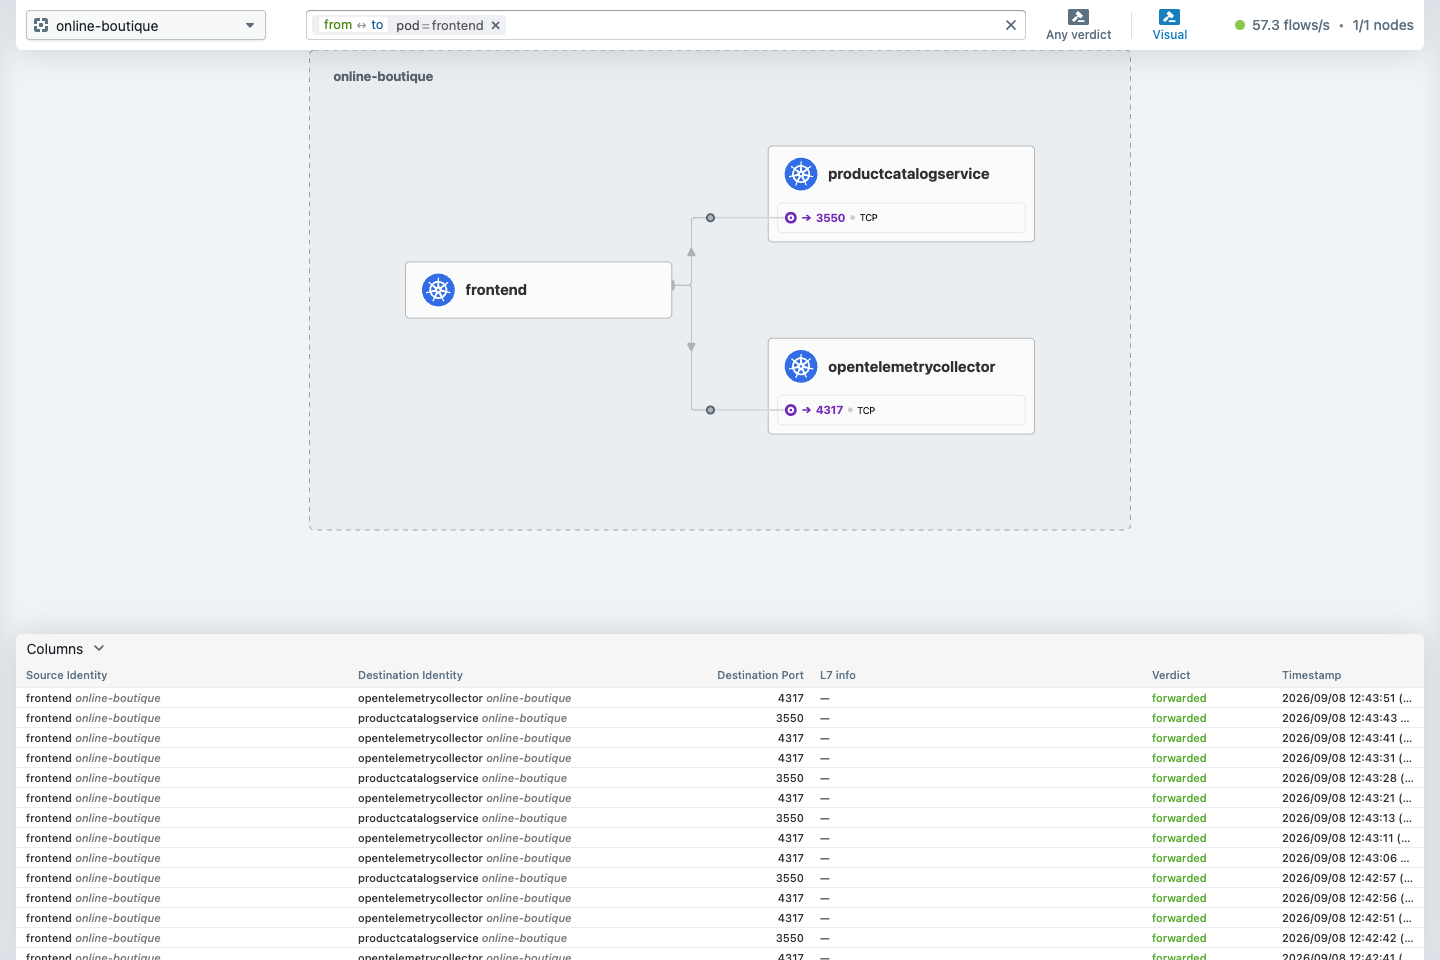
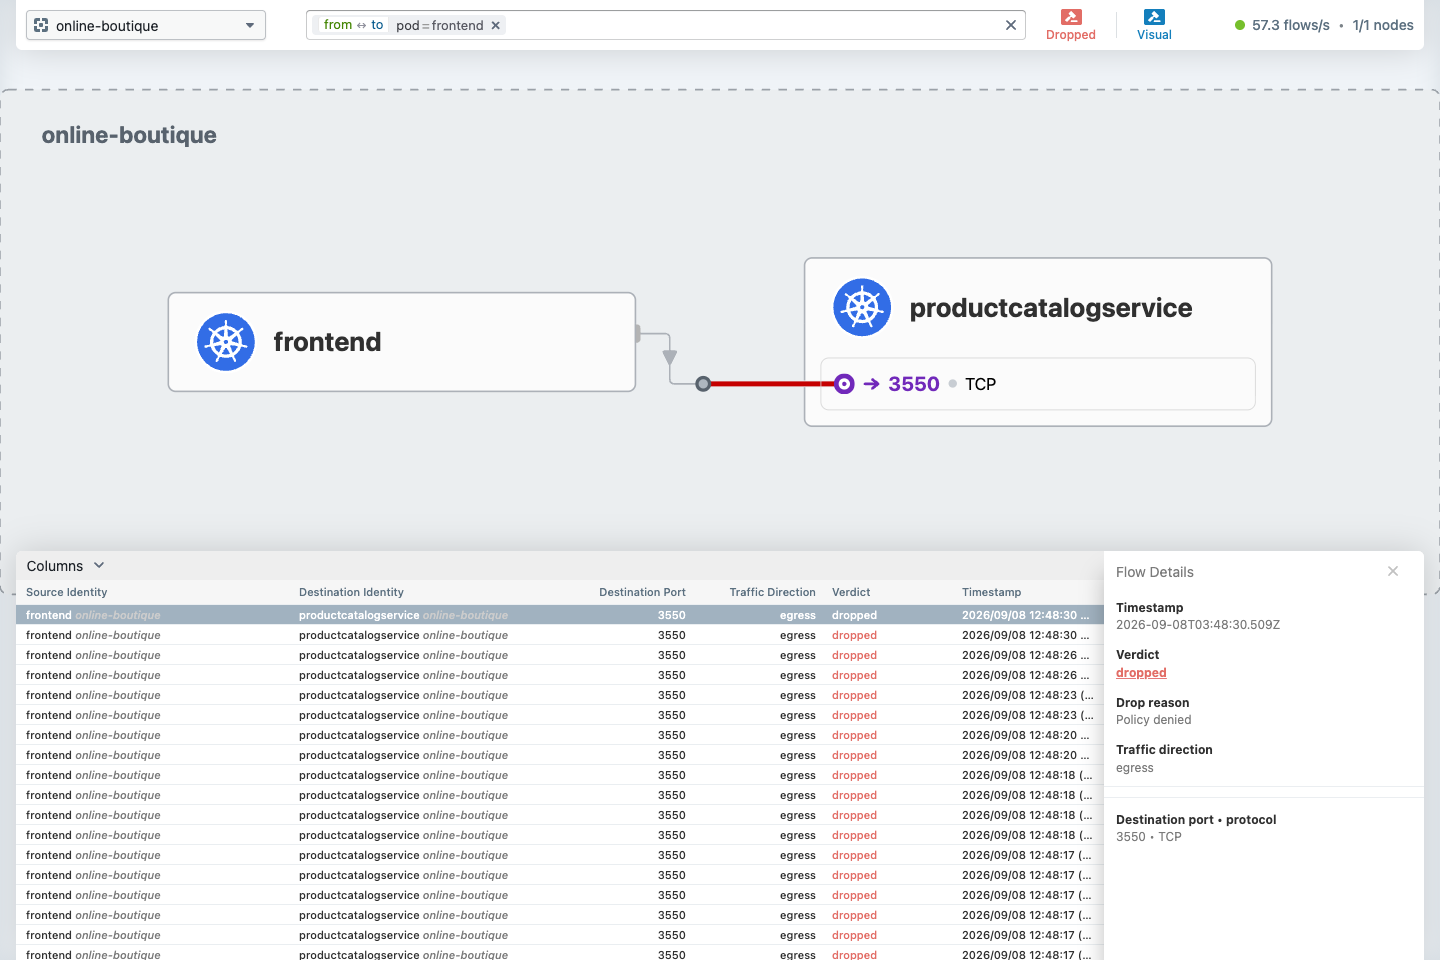
docs: connect Hubble topology and fault evidence walkthrough

diff --git a/README.md b/README.md
@@ -60,20 +60,63 @@ no-fault control에서는 분석 작업 자체는 정상 완료되지만, 원인
 root cause를 만들지 않고 `ABSTAIN`한다. 화면의 6개 누락 조건은 미확정 가설에 관한 것이며,
 이 대조군의 결과를 모든 정상 서비스에 대한 무오탐 보장으로 해석하지 않는다.
 
-### Network Evidence: Hubble UI
+### Network Fault Evidence: Hubble UI
 
-![Hubble UI frontend service map and forwarded flows after recovery](assets/hubble-network-observability.png)
+#### 1. 전체 통신 지도에서 조사 대상 찾기
 
-`frontend`로 필터링한 Hubble UI에서 `productcatalogservice:3550/TCP`와
-`opentelemetrycollector:4317/TCP`로 향하는 연결, 개별 Flow의 `forwarded` verdict와
-관측 시각을 확인한다. 내부 IP와 개별 Pod 식별자가 노출되지 않는 필터·표시 열로 캡처했다.
-이 화면은 **정책 차단 실험 복구 후 별도 시점의 실시간 관측**이며, 장애 당시 캡처나
-애플리케이션 요청 성공을 증명하는 화면은 아니다.
+![Hubble namespace service map with the investigated frontend and productcatalogservice endpoints annotated](assets/hubble-service-map-overview.png)
 
-Hubble UI는 운영자가 네트워크 신호를 확인하는 보조 화면이다. Agent는 이 이미지를
-분석하지 않고, Hubble Provider가 수집·정규화한 Flow Evidence를 StateGraph와
-Frozen Context를 통해 참조한다. 따라서 장애 원인을 검증할 때는 현재 UI가 아니라
-**Incident 시간창에 수집해 고정한 Evidence**를 기준으로 삼는다.
+Pod 필터를 해제한 namespace 관측 지도에서 여러 애플리케이션, Redis, OTel Collector와
+관측 시스템의 연결을 함께 확인한다. **A는 `frontend`, B는 `productcatalogservice`**로,
+아래 정책 차단 실험에서 조사한 경로의 양 끝이다. 파란 테두리는 README 설명용 표시이며
+Hubble의 장애 판정이 아니다. API 호출과 telemetry 전송이 함께 보이므로 모든 선을
+애플리케이션 간 API 의존성으로 해석하지 않는다.
+
+이 전체 지도는 **복구 후 05:02 UTC에 홈페이지·상품·장바구니를 각각 한 번 정상 조회한
+뒤 05:05 UTC에 캡처**했다. 세 조회는 HTTP 200이었으며 새 장애나 주문을 생성하지 않았다.
+아래 장애 시간창의 화면과는 관측 시점이 다르다.
+
+#### 2. 해당 경로의 장애 시간창에서 근거 확인하기
+
+위 OOM 사례와 별도로, 2026-09-08 **03:48:12–03:48:52 UTC**에
+`CiliumNetworkPolicy`로 `frontend → productcatalogservice:3550/TCP` 한 경로만 차단했다.
+
+![Hubble UI showing frontend to productcatalogservice egress drops with Policy denied details](assets/hubble-network-observability.png)
+
+빨간 연결선과 `dropped` 목록에서 차단된 경로를 확인하고, 오른쪽 `Flow Details`에서
+**03:48:30.509Z · egress · Policy denied · 3550/TCP**를 대조한다. 이는 장애 시간창에
+실제로 수신한 Flow를 선택한 화면이며, 화면 정리와 최종 캡처는 복구 후 진행했다.
+남아 있는 drop 목록을 현재 장애가 지속된다는 의미로 해석하지 않는다.
+
+| 단계 | 상품 조회 `/product/0PUK6V6EV0` 실측 | 함께 확인한 상태 |
+|---|---|---|
+| 차단 전 | 3/3 HTTP 200, 45–54 ms | 정상 baseline과 metric 수신 확인 |
+| 차단 중 | 3/3 client timeout, 약 5.03초 | 같은 시간창에 정책 차단 관측 18건, `/_healthz`는 HTTP 200 |
+| 정책 제거 후 | 3/3 HTTP 200, 42–44 ms | 정책·lock 제거, Pod 재시작·Deployment 변경 없음 |
+
+즉, **프로세스 health check는 통과해도 특정 의존 서비스로 가는 통신이 차단되어 상품
+요청은 실패할 수 있다.** timeout은 클라이언트에서 측정한 결과이며 HTTP 5xx가 아니다.
+18건은 수집된 205개 Flow 중 정책 차단 관측 수이지, 실패 요청 수가 아니다.
+
+#### 3. 관측을 RCA가 사용할 Evidence로 연결하기
+
+03:48 UTC 재현에서는 화면 확인에 그치지 않고, 같은 근거가 저장·고정·조회되는지 검증했다.
+
+| 경계 | 확인한 결과 |
+|---|---|
+| Hubble Provider → Evidence | 205개 Flow 중 정책 차단 관측 18건을 `POLICY_DENIAL_OBSERVED`로 정규화 |
+| Evidence → Neo4j StateGraph | 해당 Service의 Event에 같은 `evidence_id`와 facts가 투영됨 |
+| StateGraph → Frozen Context | 해당 Evidence가 포함되고 복구 후 재검사에도 Context hash가 동일함 |
+| Frozen Context → Agent 조회 도구 | 조사 후보에 포함되고 실제 `inspect_candidate` 호출이 `SUCCEEDED`, facts 일치 |
+
+Agent가 참조하는 것은 이 이미지가 아니라 수집·정규화된 Evidence다. 이는 **평가용 Alert
+기반 Evidence 경로 검증**이며 LLM 호출이나 네트워크 원인 확정은 포함하지 않는다.
+수집 품질의 `PARTIAL`과 retention `UNKNOWN`도 그대로 유지했다.
+[검증 범위와 안전장치](platform/observability/README.md#controlled-network-evidence-verification)를 참고한다.
+
+공개 캡처는 내부 IP·Pod·Cilium 식별자와 세부 라벨 필드를 숨기고 확대 배율·표 배치를
+조정했다. 전체 지도에는 A/B 설명 표시만 추가했으며, 관측된 서비스·연결, Flow 시각,
+verdict와 drop reason은 변경하지 않았다.
 
 ### Five-minute Demo
 

diff --git a/platform/observability/README.md b/platform/observability/README.md
@@ -187,8 +187,9 @@ Hubble retention remains `UNKNOWN`, and warnings/partial collection stay visible
 
 Private before/fault/recovery probes, metric snapshots, identifiers and audit
 results are saved under ignored `tmp/hubble-evidence-*/result.json`. Failed runs
-remain failed artifacts; raw results/screenshots must not be published. Use a
-redacted summary only after inspecting the actual outcome. This standalone check
+remain failed artifacts; raw results and unreviewed screenshots must not be
+published. Publish only a privacy-reviewed summary or capture after inspecting
+the actual outcome. This standalone check
 does not change the frozen three-fault/no-fault accuracy matrices or taxonomy.
 
 For an existing run, replace the two fault-authorization flags with
@@ -197,15 +198,43 @@ checks cleanup, unchanged Pod identities/restarts and Deployment specs, the
 `ANALYZING` state, the original Context hash, Neo4j facts and Agent tool access.
 It writes a separate `read-only-followup.json`, preserving the original result.
 
-The 2026-09-08 reference check observed three successful product requests before
+The first 2026-09-08 reference check observed three successful product requests before
 the fault, three approximately five-second client timeouts during the fault, and
 three successful requests after restoration. The stored sample contained 431
 flows including 18 policy denials. Initial API metric series had not yet arrived;
 the error counter appeared in later samples. These are client-timeout observations,
 not three observed HTTP 5xx responses. The harness now waits for API baseline
-series before applying a policy; this added preflight gate was locally tested,
-not used to repeat the already completed fault. The collection retained its
-compatibility warning and partial quality; no LLM diagnosis was requested.
+series before applying a policy. The collection retained its compatibility
+warning and partial quality; no LLM diagnosis was requested.
+
+A second run at **2026-09-08 03:48:12–03:48:52 UTC** verified that baseline gate
+live and supplied the [root README's Hubble fault-detail screenshot](../../README.md#network-fault-evidence-hubble-ui).
+Three baseline requests returned HTTP 200 in 45–54 ms; all three fault probes
+timed out in 5,029–5,033 ms while `/_healthz` still returned HTTP 200. After
+policy removal, three product requests returned HTTP 200 in 42–44 ms.
+The bounded stored sample contained **205 flows and 18 `POLICY_DENY` observations**;
+these are flow observations, not a count of failed application requests.
+The screenshot selects the actual 03:48:30.509Z policy-denied egress flow within
+this fault and collection window. Presentation cleanup and the final capture
+occurred after recovery: retained UI drops do not imply an ongoing fault.
+Private identifier/label fields are hidden and table width is adjusted; service
+names, timestamps, verdicts and drop reasons are unchanged.
+
+The run and a separate read-only follow-up both passed: policy/lock absent,
+unchanged Pod identities/restarts and Deployment specs, matching Neo4j facts,
+unchanged Frozen Context hash, and successful deployed Agent tool inspection.
+`PARTIAL`, completeness 0.5, `CLI_RELAY_VERSION_MISMATCH` and retention `UNKNOWN`
+remained visible. The evaluation alert was resolved, the verification Incident
+remained `ANALYZING`, and the Agent run count was zero. This is not a network
+root-cause accuracy result and does not change the existing fault matrices.
+
+The root README also includes a separate namespace-wide overview captured at
+05:05 UTC, after three ordinary page reads at 05:02 UTC (home, product and cart;
+all HTTP 200, no order or fault creation). It shows the actual observed service
+and telemetry connections. Blue A/B outlines are explanatory annotations for
+the earlier drill's endpoints, not native Hubble verdicts. This later topology
+view must not be presented as a fault-time snapshot or proof of full business
+transaction coverage.
 
 ### Grafana and telemetry
 
